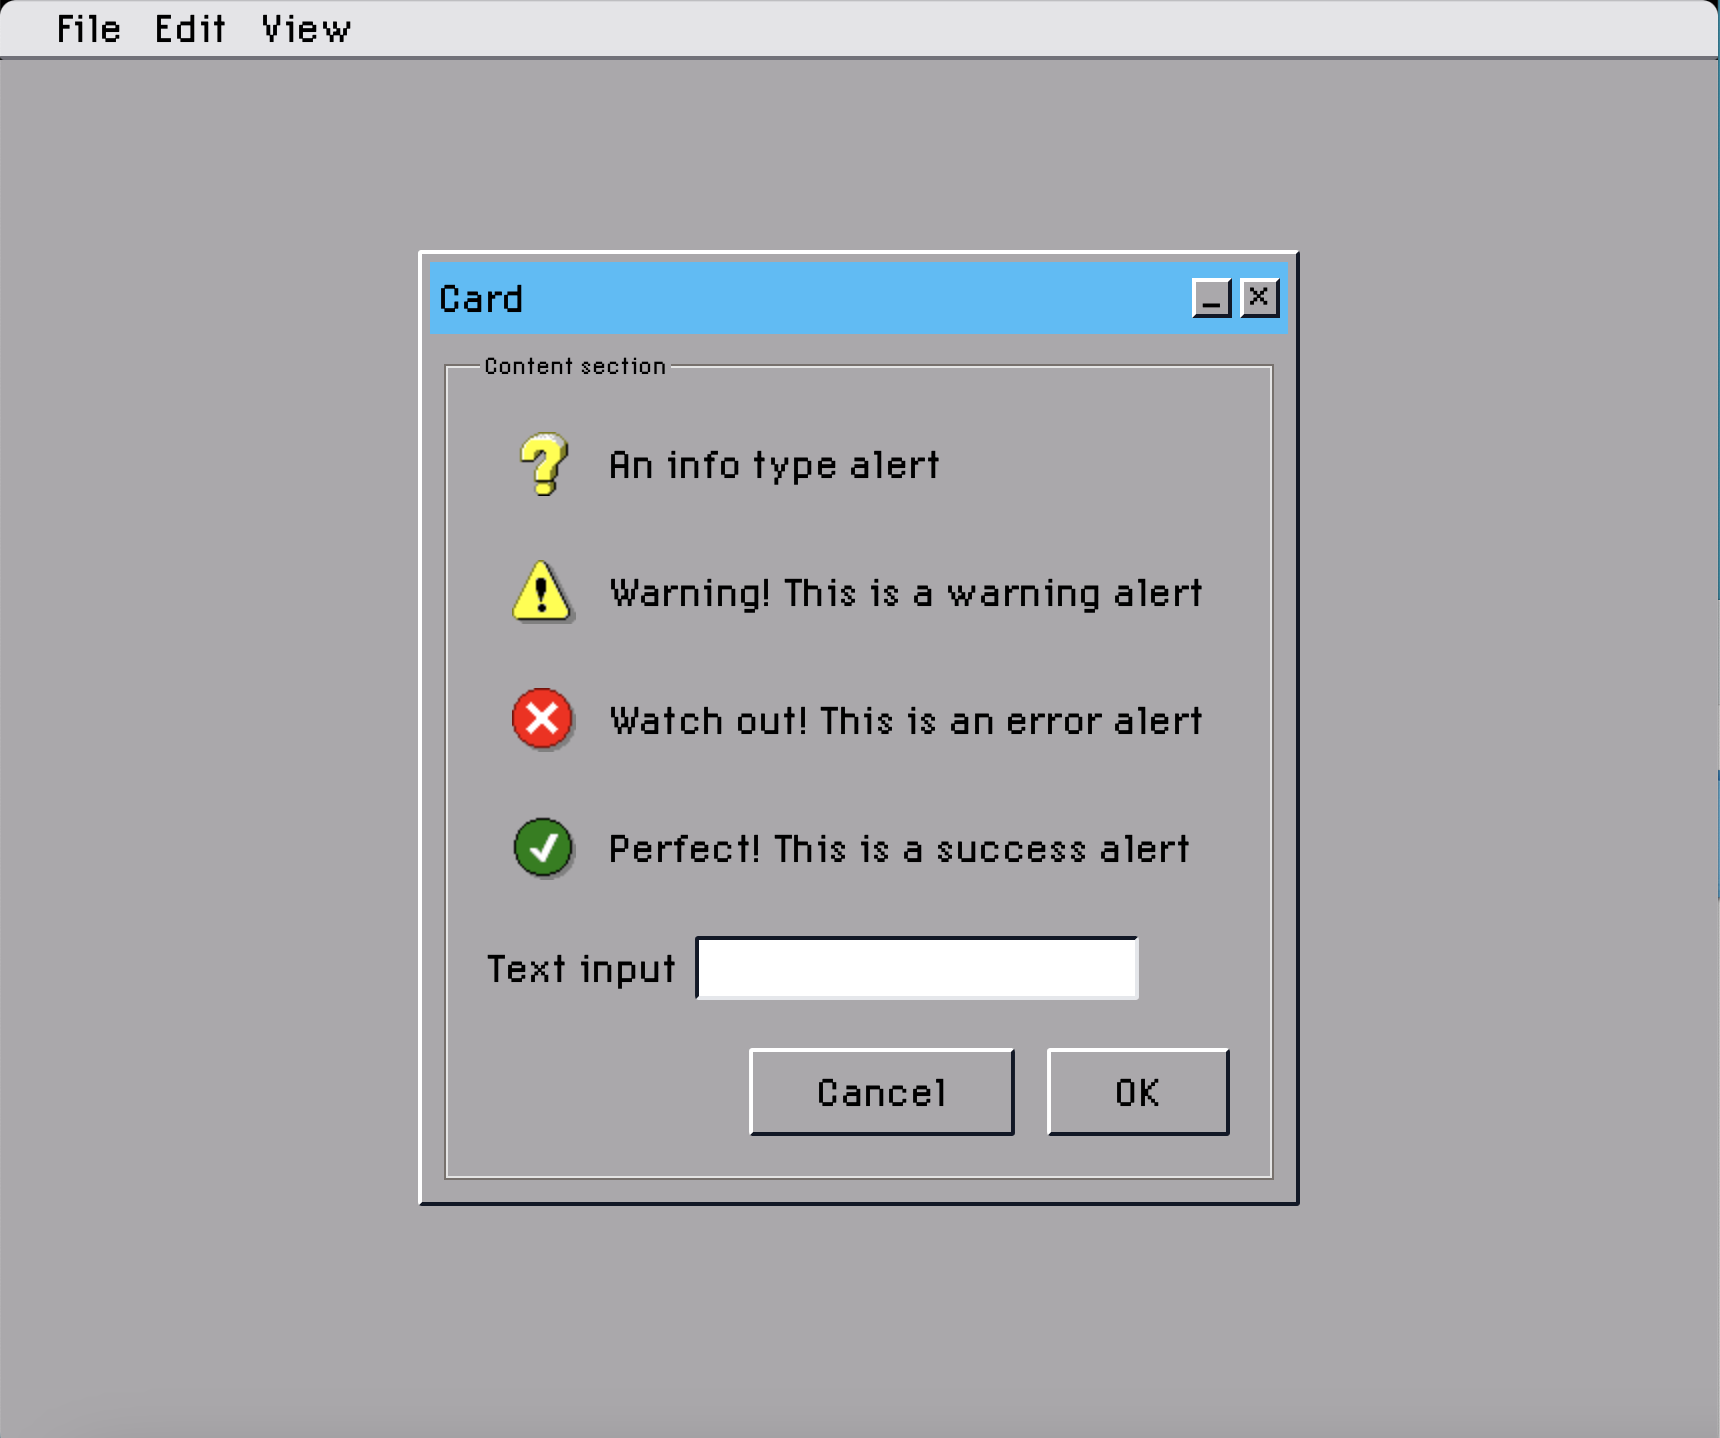
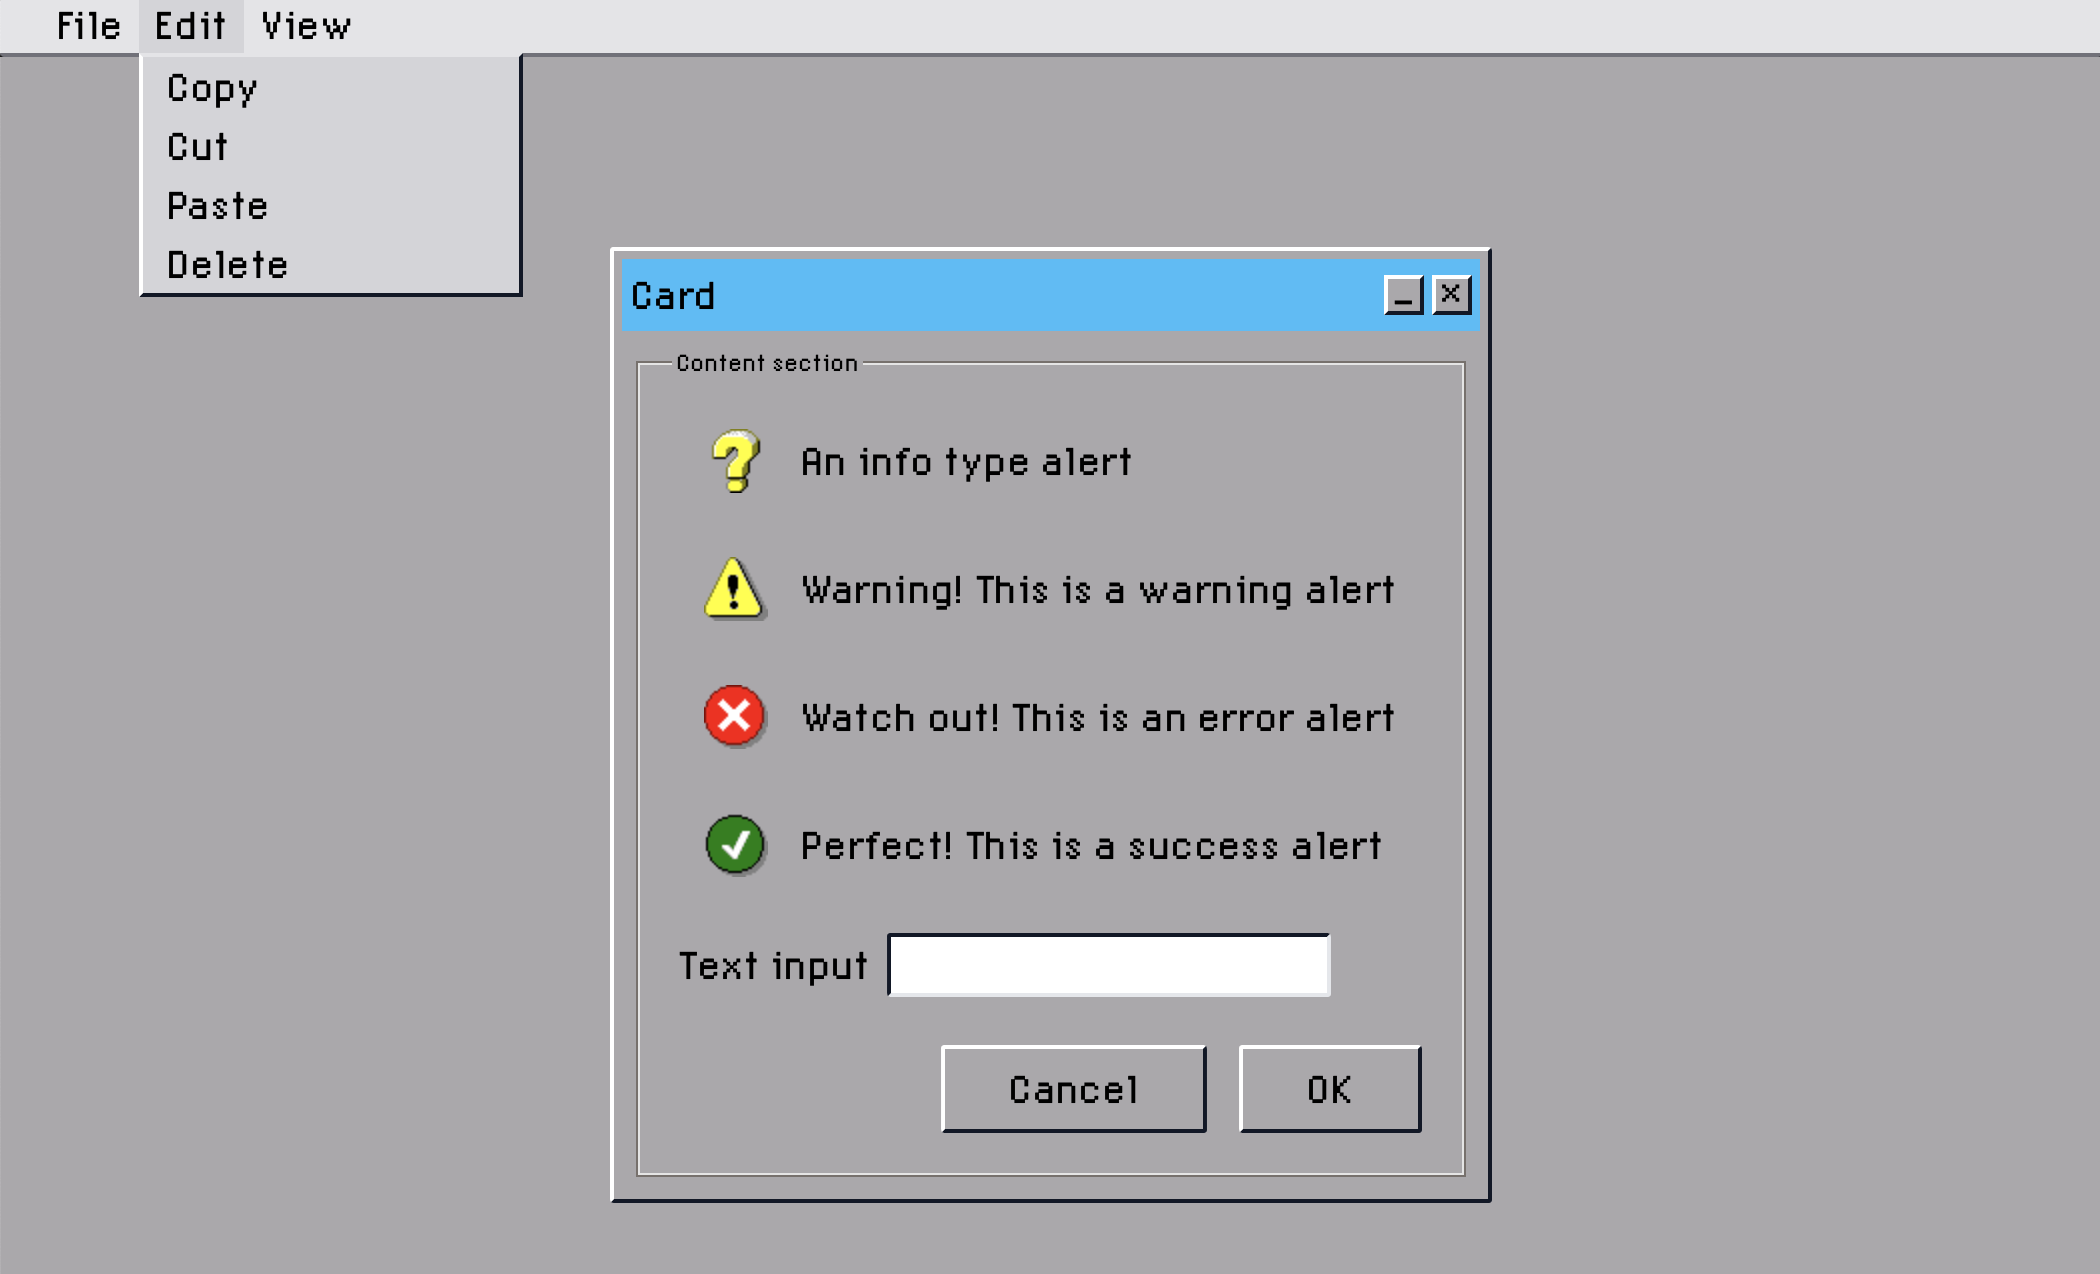
change taskbar style

Changed region(s): [[0.0, 0.0, 1.0, 0.949]]

diff --git a/src/components/Taskbar.tsx b/src/components/Taskbar.tsx
@@ -6,9 +6,9 @@ interface Props extends ComponentPropsWithoutRef<"div"> {
 }
 function Taskbar({ ...props }: Props) {
   return (
-    <div className="fixed top-0 right-0 bg-black w-screen">
+    <div className="fixed top-0 right-0 bg-black w-screen z-50">
       <div
-        className="border-b-zinc-500 border-x-0 border-t-0 border-2 bg-zinc-200 text-xl rounded-sm flex px-5 rounded-t-lg"
+        className="border-b-zinc-500 border-x-0 border-t-0 border-2 bg-zinc-200 text-xl rounded-sm flex px-5"
         {...props}>
         <div className="group relative px-2 hover:bg-zinc-300 cursor-pointer">
           File
